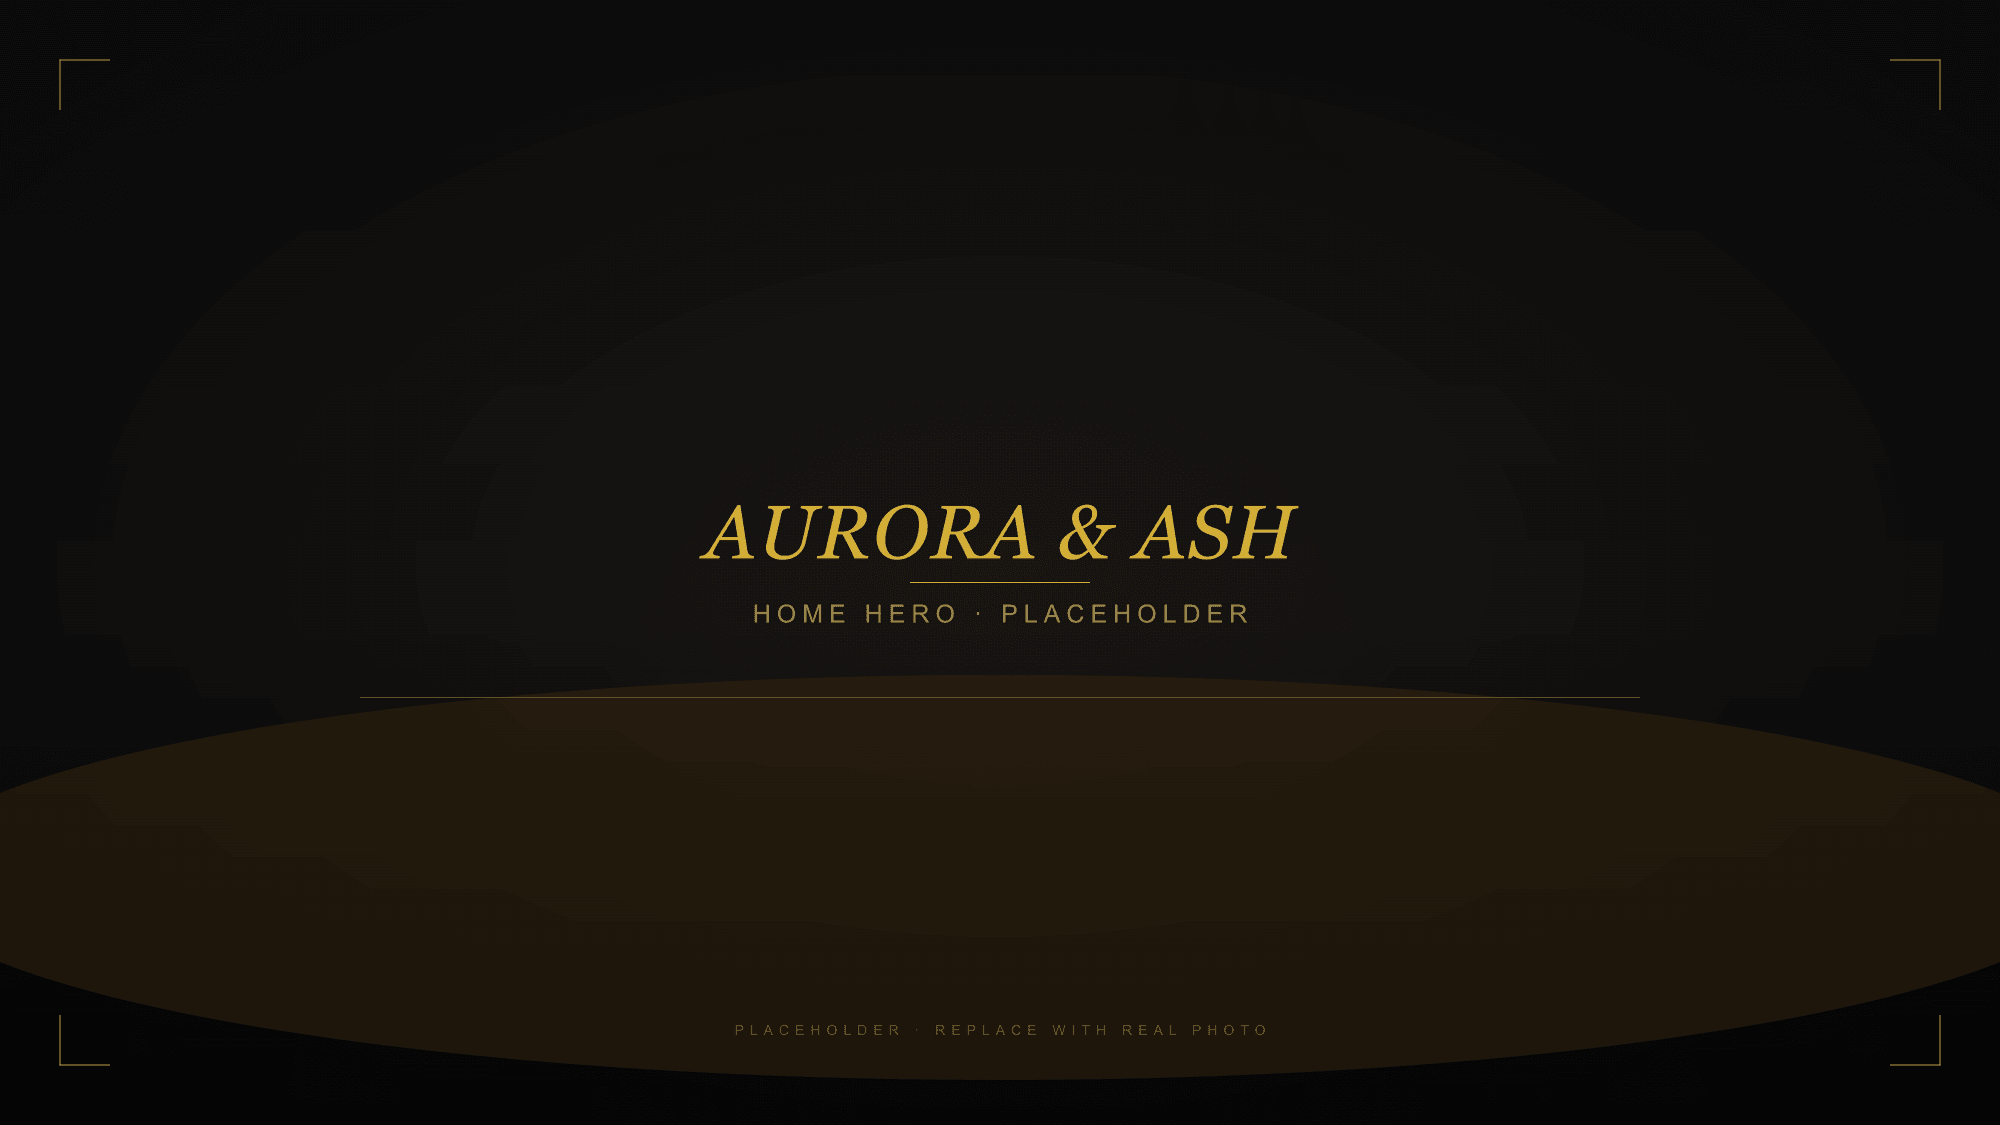
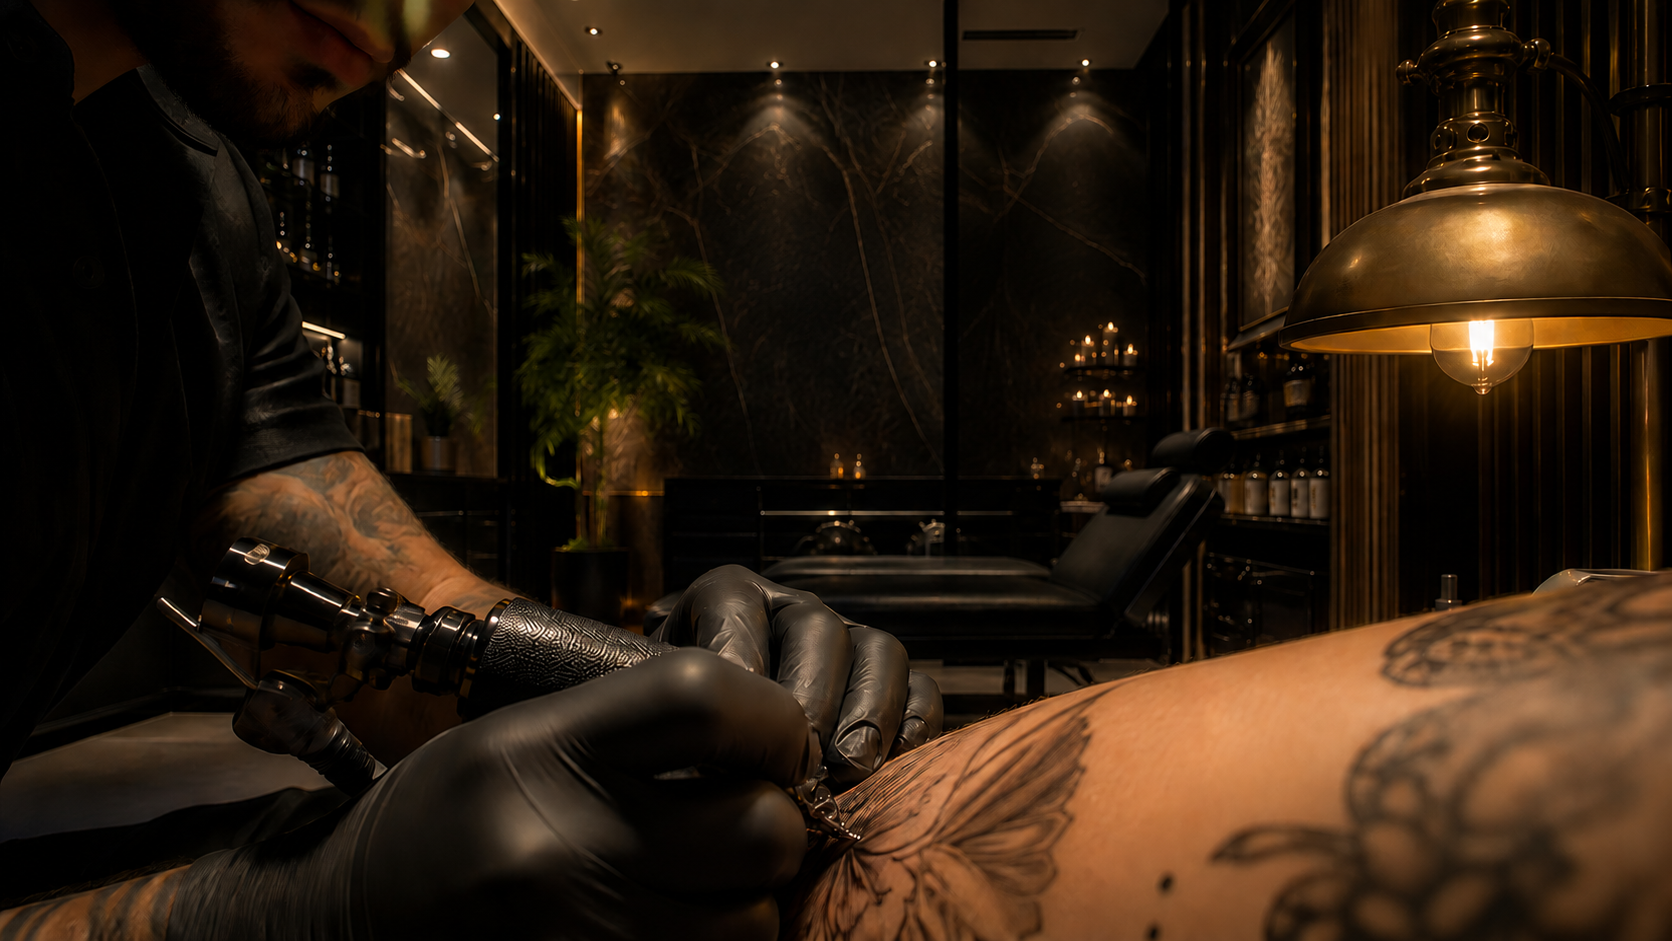
Fix homepage media and menu anchors

diff --git a/aurora-ash-tattoo/components/NavMenu.tsx b/aurora-ash-tattoo/components/NavMenu.tsx
@@ -2,7 +2,7 @@
 
 import Link from 'next/link'
 import { usePathname } from 'next/navigation'
-import { useCallback, useEffect, useMemo, useRef, useState } from 'react'
+import { useCallback, useEffect, useMemo, useRef, useState, type MouseEvent } from 'react'
 import { AnimatePresence, motion } from 'framer-motion'
 
 import { DEFAULT_STUDIO_CONTACT } from '../lib/studio-contact-defaults'
@@ -175,6 +175,29 @@ export default function NavMenu({ artists, studio }: Props) {
 
   const closeMenu = useCallback(() => setIsOpen(false), [])
 
+  const handleHomeAnchorClick = useCallback(
+    (sectionId: SectionId) => (event: MouseEvent<HTMLAnchorElement>) => {
+      if (!isHome) {
+        closeMenu()
+        return
+      }
+
+      // Next.js hash links are sometimes flaky when a fullscreen animated menu
+      // closes in the same click. Drive same-page section navigation explicitly
+      // so menu items always move the viewport, not just update the URL hash.
+      event.preventDefault()
+      closeMenu()
+
+      window.requestAnimationFrame(() => {
+        const target = document.getElementById(sectionId)
+        if (!target) return
+        target.scrollIntoView({ block: 'start', behavior: 'smooth' })
+        window.history.replaceState(null, '', `#${sectionId}`)
+      })
+    },
+    [closeMenu, isHome],
+  )
+
   const activeKey = useMemo<string | null>(() => {
     if (pathname === '/inquiry') return 'inquiry'
     if (pathname === '/contact') return 'contact'
@@ -317,7 +340,7 @@ export default function NavMenu({ artists, studio }: Props) {
                 <motion.li variants={itemVariants}>
                   <Link
                     href={anchorHref('studio')}
-                    onClick={closeMenu}
+                    onClick={handleHomeAnchorClick('studio')}
                     className={menuLinkClass(activeKey === 'studio')}
                   >
                     Studio
@@ -327,7 +350,7 @@ export default function NavMenu({ artists, studio }: Props) {
                 <motion.li variants={itemVariants}>
                   <Link
                     href={anchorHref('artists')}
-                    onClick={closeMenu}
+                    onClick={handleHomeAnchorClick('artists')}
                     className={menuLinkClass(activeKey === 'artists')}
                   >
                     Artists
@@ -337,7 +360,7 @@ export default function NavMenu({ artists, studio }: Props) {
                 <motion.li variants={itemVariants}>
                   <Link
                     href={anchorHref('location')}
-                    onClick={closeMenu}
+                    onClick={handleHomeAnchorClick('location')}
                     className={menuLinkClass(activeKey === 'location')}
                   >
                     Location
@@ -347,7 +370,7 @@ export default function NavMenu({ artists, studio }: Props) {
                 <motion.li variants={itemVariants}>
                   <Link
                     href={anchorHref('aftercare')}
-                    onClick={closeMenu}
+                    onClick={handleHomeAnchorClick('aftercare')}
                     className={menuLinkClass(activeKey === 'aftercare')}
                   >
                     Aftercare
@@ -357,7 +380,7 @@ export default function NavMenu({ artists, studio }: Props) {
                 <motion.li variants={itemVariants}>
                   <Link
                     href={anchorHref('faq')}
-                    onClick={closeMenu}
+                    onClick={handleHomeAnchorClick('faq')}
                     className={menuLinkClass(activeKey === 'faq')}
                   >
                     FAQ

diff --git a/aurora-ash-tattoo/components/ParallaxBackdrop.tsx b/aurora-ash-tattoo/components/ParallaxBackdrop.tsx
@@ -32,7 +32,12 @@ export default function ParallaxBackdrop({
   if (!desktopUrl && !mobileUrl) return null
 
   const baseLayerClass = [
-    'absolute inset-0 z-0 pointer-events-none bg-[#0a0a0a] bg-cover bg-center bg-no-repeat bg-fixed',
+    // Keep the image as a normal in-section background layer. `background-attachment: fixed`
+    // is attractive for parallax, but it is unreliable in mobile browsers and
+    // headless/remote Chromium captures: hash navigation can land on a black
+    // section with no visible image. Reliability wins here — the content must
+    // always show.
+    'absolute inset-0 z-0 pointer-events-none bg-[#0a0a0a] bg-cover bg-center bg-no-repeat',
     imageClassName,
   ]
     .filter(Boolean)